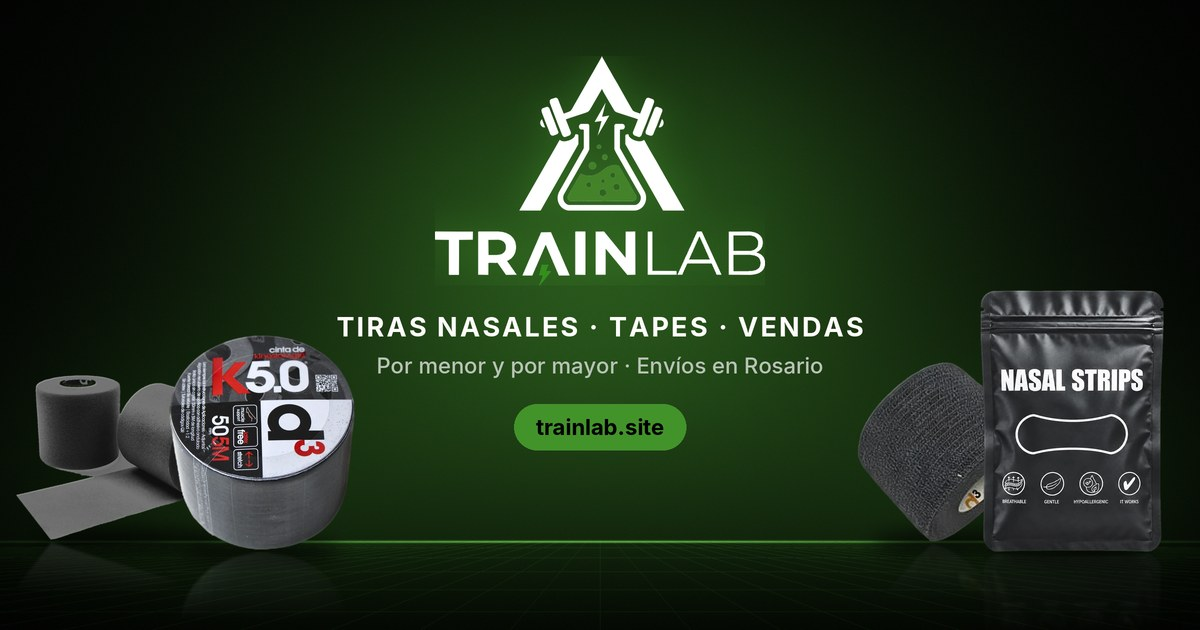
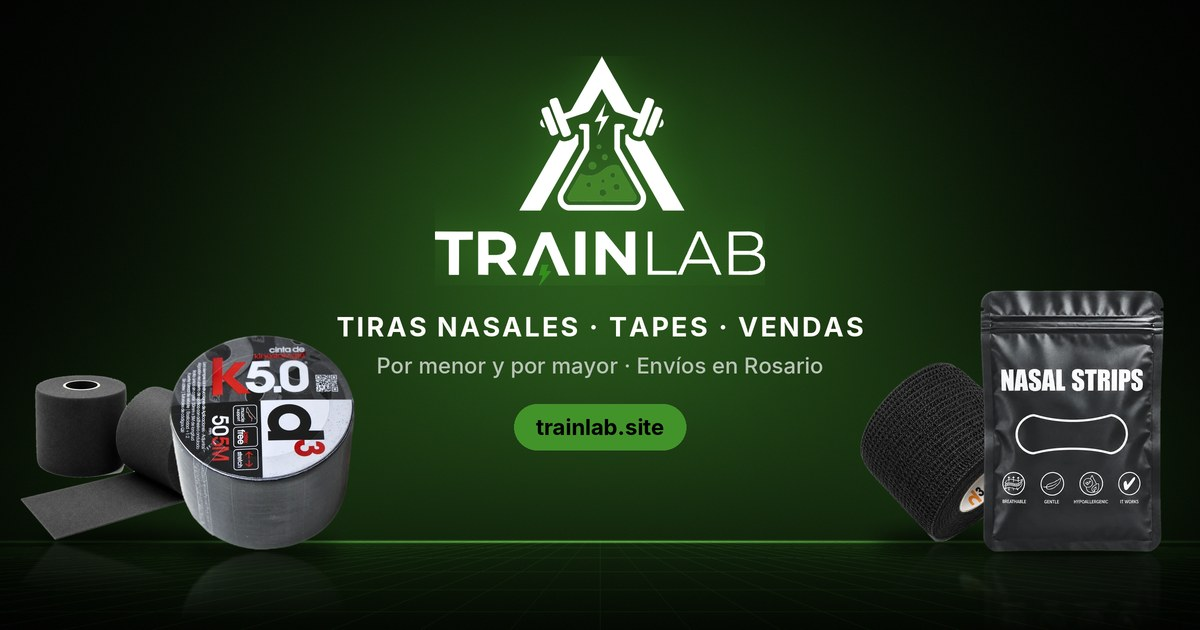
Fotos en alta calidad del Pre Tape y la Venda Cohesiva (catálogo, ficha, laboratorio e imagen para compartir)
Claude-Session: https://claude.ai/code/session_01GEY3o5xzTM7sRgXB44bjRC

Changed region(s): [[0.7092, 0.573, 0.8325, 0.8746], [0.0, 0.6032, 0.1542, 0.8746]]

diff --git a/index.html b/index.html
@@ -28,7 +28,7 @@
 <meta name="twitter:description" content="Tiras nasales, tapes deportivos, cintas kinesiológicas y vendas. Venta por menor y por mayor. Envíos en Rosario y alrededores.">
 <meta name="twitter:image" content="https://trainlab.site/media/web/og-trainlab.jpg">
 <style>:root{padding-top:env(safe-area-inset-top,0px);padding-bottom:env(safe-area-inset-bottom,0px)}body{margin:0}img{max-width:100%}[hidden]{display:none!important}</style>
-<script type="application/ld+json">{"@context":"https://schema.org","@graph":[{"@type":"Store","@id":"https://trainlab.site/#store","name":"TRAINLAB","url":"https://trainlab.site/","logo":"https://trainlab.site/icon-512.png","image":"https://trainlab.site/media/web/og-trainlab.jpg","telephone":"+54 9 341 610-2574","address":{"@type":"PostalAddress","addressLocality":"Rosario","addressRegion":"Santa Fe","addressCountry":"AR"},"areaServed":"Rosario y alrededores","sameAs":["https://www.instagram.com/trainlab.ros/","https://g.page/r/Cdd3to9BkibKEBM"],"paymentAccepted":"Efectivo, transferencia, Mercado Pago, tarjeta de débito y crédito"},{"@type":"WebSite","@id":"https://trainlab.site/#web","url":"https://trainlab.site/","name":"TRAINLAB","inLanguage":"es-AR"},{"@type":"Product","name":"Nasal Strips","description":"Una tira de aplicación externa que puede ayudar a mejorar el flujo de aire nasal y la comodidad al respirar por la nariz. Un pequeño detalle para acompañar tu rutina.","image":"https://trainlab.site/media/web/photo-assets-image-2-png.webp","brand":{"@type":"Brand","name":"TRAINLAB"},"offers":{"@type":"Offer","priceCurrency":"ARS","price":"12000.00","availability":"https://schema.org/InStock","url":"https://trainlab.site/#productos","seller":{"@id":"https://trainlab.site/#store"}}},{"@type":"Product","name":"Nasal Strips Combo x3","description":"Una tira de aplicación externa que puede ayudar a mejorar el flujo de aire nasal y la comodidad al respirar por la nariz. Un pequeño detalle para acompañar tu rutina.","image":"https://trainlab.site/media/web/photo-media-61235c51-261b-467e-87a5-d6d9654a0ad8-png.webp","brand":{"@type":"Brand","name":"TRAINLAB"},"offers":{"@type":"Offer","priceCurrency":"ARS","price":"30600.00","availability":"https://schema.org/InStock","url":"https://trainlab.site/#productos","seller":{"@id":"https://trainlab.site/#store"}}},{"@type":"Product","name":"D3 AST - Sport Tape","description":"Tape deportivo rígido D3 AST de algodón para técnicas de vendaje.","image":"https://trainlab.site/media/web/photo-assets-d3-753797efefff1156-webp.webp","brand":{"@type":"Brand","name":"D3"},"offers":{"@type":"Offer","priceCurrency":"ARS","price":"6400.00","availability":"https://schema.org/InStock","url":"https://trainlab.site/#productos","seller":{"@id":"https://trainlab.site/#store"}}},{"@type":"Product","name":"D3 K5 Kinesiology Tape","description":"Cinta kinesiológica elástica D3 K5 de 5 cm × 5 m, disponible en varios colores.","image":"https://trainlab.site/media/web/photo-assets-d3-b2226800c6480ea9-webp.webp","brand":{"@type":"Brand","name":"D3"},"offers":{"@type":"Offer","priceCurrency":"ARS","price":"12400.00","availability":"https://schema.org/InStock","url":"https://trainlab.site/#productos","seller":{"@id":"https://trainlab.site/#store"}}},{"@type":"Product","name":"D3 Pre Tape","description":"Pre tape D3 de 70 mm × 27 m, para colocar como capa previa al vendaje adhesivo.","image":"https://trainlab.site/media/web/photo-assets-d3-578024cc44b86db7-webp.webp","brand":{"@type":"Brand","name":"D3"},"offers":{"@type":"Offer","priceCurrency":"ARS","price":"8300.00","availability":"https://schema.org/InStock","url":"https://trainlab.site/#productos","seller":{"@id":"https://trainlab.site/#store"}}},{"@type":"Product","name":"D3 Venda Cohesiva 5x5","description":"Venda elástica cohesiva D3 negra de 5 cm × 5 m. Se adhiere sobre sí misma, sin pegarse a la piel ni al vello.","image":"https://trainlab.site/media/web/photo-assets-d3-cohesiva-5x5-webp.webp","brand":{"@type":"Brand","name":"D3"},"offers":{"@type":"Offer","priceCurrency":"ARS","price":"6650.00","availability":"https://schema.org/InStock","url":"https://trainlab.site/#productos","seller":{"@id":"https://trainlab.site/#store"}}}]}</script>
+<script type="application/ld+json">{"@context":"https://schema.org","@graph":[{"@type":"Store","@id":"https://trainlab.site/#store","name":"TRAINLAB","url":"https://trainlab.site/","logo":"https://trainlab.site/icon-512.png","image":"https://trainlab.site/media/web/og-trainlab.jpg","telephone":"+54 9 341 610-2574","address":{"@type":"PostalAddress","addressLocality":"Rosario","addressRegion":"Santa Fe","addressCountry":"AR"},"areaServed":"Rosario y alrededores","sameAs":["https://www.instagram.com/trainlab.ros/","https://g.page/r/Cdd3to9BkibKEBM"],"paymentAccepted":"Efectivo, transferencia, Mercado Pago, tarjeta de débito y crédito"},{"@type":"WebSite","@id":"https://trainlab.site/#web","url":"https://trainlab.site/","name":"TRAINLAB","inLanguage":"es-AR"},{"@type":"Product","name":"Nasal Strips","description":"Una tira de aplicación externa que puede ayudar a mejorar el flujo de aire nasal y la comodidad al respirar por la nariz. Un pequeño detalle para acompañar tu rutina.","image":"https://trainlab.site/media/web/photo-assets-image-2-png.webp","brand":{"@type":"Brand","name":"TRAINLAB"},"offers":{"@type":"Offer","priceCurrency":"ARS","price":"12000.00","availability":"https://schema.org/InStock","url":"https://trainlab.site/#productos","seller":{"@id":"https://trainlab.site/#store"}}},{"@type":"Product","name":"Nasal Strips Combo x3","description":"Una tira de aplicación externa que puede ayudar a mejorar el flujo de aire nasal y la comodidad al respirar por la nariz. Un pequeño detalle para acompañar tu rutina.","image":"https://trainlab.site/media/web/photo-media-61235c51-261b-467e-87a5-d6d9654a0ad8-png.webp","brand":{"@type":"Brand","name":"TRAINLAB"},"offers":{"@type":"Offer","priceCurrency":"ARS","price":"30600.00","availability":"https://schema.org/InStock","url":"https://trainlab.site/#productos","seller":{"@id":"https://trainlab.site/#store"}}},{"@type":"Product","name":"D3 AST - Sport Tape","description":"Tape deportivo rígido D3 AST de algodón para técnicas de vendaje.","image":"https://trainlab.site/media/web/photo-assets-d3-753797efefff1156-webp.webp","brand":{"@type":"Brand","name":"D3"},"offers":{"@type":"Offer","priceCurrency":"ARS","price":"6400.00","availability":"https://schema.org/InStock","url":"https://trainlab.site/#productos","seller":{"@id":"https://trainlab.site/#store"}}},{"@type":"Product","name":"D3 K5 Kinesiology Tape","description":"Cinta kinesiológica elástica D3 K5 de 5 cm × 5 m, disponible en varios colores.","image":"https://trainlab.site/media/web/photo-assets-d3-b2226800c6480ea9-webp.webp","brand":{"@type":"Brand","name":"D3"},"offers":{"@type":"Offer","priceCurrency":"ARS","price":"12400.00","availability":"https://schema.org/InStock","url":"https://trainlab.site/#productos","seller":{"@id":"https://trainlab.site/#store"}}},{"@type":"Product","name":"D3 Pre Tape","description":"Pre tape D3 de 70 mm × 27 m, para colocar como capa previa al vendaje adhesivo.","image":"https://trainlab.site/media/web/photo-assets-d3-578024cc44b86db7-webp.webp","brand":{"@type":"Brand","name":"D3"},"offers":{"@type":"Offer","priceCurrency":"ARS","price":"8300.00","availability":"https://schema.org/InStock","url":"https://trainlab.site/#productos","seller":{"@id":"https://trainlab.site/#store"}}},{"@type":"Product","name":"D3 Venda Cohesiva 5x5","description":"Venda elástica cohesiva D3 negra de 5 cm × 5 m. Se adhiere sobre sí misma, sin pegarse a la piel ni al vello.","image":"https://trainlab.site/media/web/photo-cohesiva-hd.webp","brand":{"@type":"Brand","name":"D3"},"offers":{"@type":"Offer","priceCurrency":"ARS","price":"6650.00","availability":"https://schema.org/InStock","url":"https://trainlab.site/#productos","seller":{"@id":"https://trainlab.site/#store"}}}]}</script>
 <script async src="https://www.googletagmanager.com/gtag/js?id=G-10K5DPQJL1"></script>
 <script>window.dataLayer=window.dataLayer||[];function gtag(){dataLayer.push(arguments)}gtag("js",new Date());gtag("config","G-10K5DPQJL1");</script>
 </head>
@@ -73,9 +73,9 @@
 <footer class="tl-footer tl-footer-c" id="pie" data-surface="dark"><div class="wrap"><div class="tl-foot-row"><a href="#inicio" class="wordmark tl-logo-link" aria-label="TRAINLAB, inicio"><svg class="tl-logo" viewBox="0 0 426 100" aria-hidden="true" focusable="false" xmlns="http://www.w3.org/2000/svg"><path fill="currentColor" fill-rule="evenodd" d="M66.9 93.7 70.6 93.8ZM59.9 93.7 64.9 93.8ZM48.1 93.7 53.2 93.8ZM43.5 93.7 47.7 93.8ZM69.1 50.7 68.6 51.3 68.6 57.0 93.0 99.9 106.9 99.9 92.9 75.6 88.4 67.5 82.9 58.1 80.8 54.2 80.6 54.2 80.3 54.5 79.0 55.0 76.4 55.0 76.2 54.8 75.0 54.7 73.4 53.9 72.0 53.0 71.1 52.0 70.7 51.3 70.7 50.8 70.4 50.5 69.4 50.5ZM37.5 50.5 36.5 50.5 36.0 51.0 36.0 51.4 35.7 52.2 34.9 53.0 33.2 54.1 31.2 54.8 28.8 55.2 28.5 55.0 27.2 54.8 26.3 54.3 26.1 54.3 25.8 54.6 0.0 99.9 13.8 99.8 38.1 57.0 38.1 51.0ZM39.2 44.1 38.5 45.4 38.9 46.6 39.2 47.0 39.9 47.4 41.2 47.4 41.8 47.9 41.8 59.5 32.6 75.8 26.5 86.3 25.3 88.8 24.9 90.1 24.9 90.7 24.7 90.9 24.7 92.7 24.9 92.9 24.9 93.5 25.3 94.8 26.5 97.0 27.8 98.3 30.0 99.6 31.2 99.7 31.3 99.9 75.4 99.9 75.5 99.7 76.2 99.7 77.2 99.4 79.3 98.1 80.0 97.4 80.9 96.1 81.8 93.9 81.8 93.3 82.0 93.0 82.0 90.2 81.5 88.4 65.1 59.5 65.1 47.6 65.3 47.4 66.8 47.4 67.4 47.2 67.8 46.9 68.2 46.2 68.2 45.1 67.8 44.4 67.2 43.9 66.8 43.9 66.5 43.7 63.7 43.7 63.4 43.9 62.8 43.7 62.0 44.1 61.5 45.1 61.5 56.3 61.6 56.5 61.5 56.9 61.5 60.0 62.9 63.1 78.3 89.9 78.7 90.9 78.7 92.3 78.5 92.6 78.5 93.2 77.4 95.1 76.3 95.9 75.1 96.4 32.0 96.4 30.4 95.7 29.3 94.7 28.6 93.4 28.4 92.0 28.2 91.8 28.6 89.9 44.2 62.5 45.3 60.2 45.3 44.9 45.1 44.4 44.6 43.9 42.9 43.9 42.7 43.7 41.1 43.7 40.9 43.9 39.5 43.9ZM14.5 40.9 14.0 41.5 13.4 42.7 13.6 44.1 14.3 45.3 15.0 45.8 15.5 46.0 16.5 46.0 16.6 45.8 15.1 42.5 15.0 41.7ZM92.5 40.9 91.9 41.7 90.4 46.0 91.4 46.0 92.6 45.3 93.1 44.4 93.3 43.9 93.3 42.2 93.1 41.7ZM89.6 32.8 88.4 32.8 87.8 33.3 87.3 34.3 81.7 48.8 81.7 49.5 82.3 50.4 84.5 51.3 85.8 51.3 86.6 50.5 87.5 48.1 89.2 44.6 90.6 40.4 92.6 35.7 92.6 34.7 92.0 33.9ZM17.5 32.8 15.3 33.5 14.7 33.9 14.3 34.5 14.3 35.7 16.5 41.6 17.6 44.0 17.7 44.8 19.0 47.6 19.7 49.8 20.3 50.8 21.1 51.3 22.0 51.3 24.6 50.3 25.2 49.5 25.2 48.8 23.9 45.9 23.6 44.5 21.8 40.1 21.6 39.3 21.1 38.4 19.8 34.7 19.3 33.6 18.5 32.8ZM55.6 30.6 48.8 42.3 50.0 42.4 50.3 42.2 51.3 42.2 51.5 42.0 52.5 42.0 52.8 41.8 53.1 41.9 53.0 42.8 52.7 43.6 50.9 50.9 58.0 38.7 57.9 38.5 57.3 38.5 57.0 38.7 56.2 38.7 54.8 39.1 53.6 39.1ZM87.2 28.8 86.8 28.1 86.0 27.6 83.9 26.9 82.9 26.9 82.3 27.3 81.5 28.6 80.3 32.1 79.7 33.1 78.5 36.6 78.1 37.1 74.8 36.0 73.8 35.5 73.2 34.9 72.0 32.8 64.4 19.3 56.7 6.1 53.4 0.0 53.0 0.9 36.7 29.3 35.3 32.1 33.2 35.3 31.5 36.2 28.8 37.1 28.2 36.2 25.2 28.2 24.6 27.2 24.0 26.9 23.0 26.9 20.9 27.6 20.3 28.0 19.7 28.6 19.7 30.1 21.9 36.0 23.1 39.0 23.3 39.8 24.4 42.2 24.7 43.5 25.3 44.5 26.5 48.0 27.2 49.6 27.4 50.4 28.3 51.9 28.9 52.2 29.7 52.2 32.4 51.2 32.9 50.8 33.2 50.2 33.2 49.0 30.0 40.9 30.6 40.6 31.9 40.2 32.5 39.9 33.5 39.7 34.7 39.2 35.7 39.0 36.8 38.4 37.3 38.4 43.2 36.5 44.8 35.6 45.4 34.9 47.0 32.3 53.2 21.4 53.6 21.3 54.8 23.8 61.8 35.6 63.5 36.5 65.1 37.0 65.6 37.0 66.8 37.5 67.2 37.5 71.2 39.0 71.7 39.0 76.0 40.4 76.8 40.9 76.0 43.2 73.8 48.3 73.5 49.6 74.0 50.8 74.6 51.3 77.2 52.2 77.8 52.2 78.8 51.6 79.3 50.5 79.7 49.2 82.3 42.8 82.5 42.0 83.2 40.5 83.4 39.7 85.0 35.8 86.6 31.1 87.0 30.5ZM218.3 25.8 217.9 26.2 217.9 26.8 217.2 27.9 217.2 28.6 216.1 30.3 216.1 30.9 215.6 31.5 215.6 32.2 214.9 33.3 212.0 40.4 211.3 41.5 211.3 42.2 210.5 43.3 210.5 44.0 209.7 45.1 209.7 45.8 209.0 46.9 206.1 54.0 205.4 55.1 205.4 55.8 204.9 56.4 204.9 57.1 204.1 58.2 204.1 58.8 203.3 60.0 202.8 61.7 201.0 65.5 210.0 65.6 210.4 65.3 211.7 61.8 212.4 60.6 212.4 60.0 212.9 59.4 212.9 58.7 214.0 57.1 216.8 50.0 217.6 48.8 217.6 48.2 219.9 43.5 220.4 42.2 220.4 41.5 221.1 40.4 222.2 37.7 222.7 37.3 224.1 40.9 224.9 42.1 224.9 42.7 225.4 43.3 225.4 44.0 226.1 45.1 226.1 45.8 226.7 46.4 227.7 48.7 227.7 49.4 229.0 51.8 229.2 52.9 230.0 54.1 230.0 54.7 230.8 55.9 230.8 56.5 231.3 57.2 231.3 57.8 232.0 59.0 232.6 60.6 233.8 63.1 233.8 63.7 234.6 64.9 234.6 65.5 244.6 65.6 244.2 64.7 244.2 64.1 243.7 63.5 243.7 62.8 242.9 61.7 240.1 54.6 239.3 53.5 239.3 52.8 238.6 51.7 238.6 51.0 238.1 50.4 238.1 49.7 237.3 48.6 234.5 41.5 233.7 40.4 233.7 39.7 232.7 38.1 232.7 37.4 232.2 36.8 232.2 36.2 231.4 35.0 228.6 27.9 227.8 26.8 227.8 26.2 227.2 25.5 220.6 25.5 220.2 25.8ZM392.3 25.0 392.3 64.7 413.1 65.1 413.5 64.9 414.9 64.9 415.2 64.6 416.4 64.6 417.6 64.1 418.5 64.1 421.3 62.8 422.7 61.8 424.0 60.5 424.2 59.7 425.0 58.8 425.5 56.7 425.8 56.5 425.8 51.8 425.5 51.7 425.2 50.3 424.5 48.7 423.2 47.1 421.5 45.8 420.0 45.0 418.2 44.5 418.3 44.0 420.4 42.8 421.7 41.5 423.5 38.1 423.5 37.2 423.7 36.8 423.7 33.6 423.5 33.2 423.2 31.5 422.2 29.6 420.1 27.6 418.5 26.5 417.8 26.5 417.2 26.0 415.6 25.5 414.5 25.5 413.8 25.0ZM396.5 46.7 396.8 46.4 412.6 46.4 412.9 46.7 415.9 46.9 417.9 47.7 419.6 48.7 421.3 51.0 421.5 52.9 421.8 53.3 421.8 54.7 421.5 55.1 421.3 57.1 420.2 58.7 418.8 59.9 416.9 60.9 416.0 60.9 414.9 61.4 411.4 61.4 411.0 61.7 396.8 61.7 396.5 61.4ZM396.5 28.7 396.8 28.5 412.6 28.5 414.0 29.0 414.9 29.0 417.8 30.8 419.2 33.1 419.5 33.8 419.5 37.1 419.2 37.4 419.2 38.3 418.5 39.7 417.3 40.9 415.1 42.2 412.6 42.9 396.8 42.9 396.5 42.7ZM363.1 25.0 362.3 26.2 362.3 26.8 361.0 29.0 361.0 29.6 359.7 31.8 359.7 32.4 358.7 34.1 358.7 34.7 357.7 36.4 357.7 37.1 351.5 49.7 351.5 50.4 350.5 52.1 350.5 52.7 349.2 54.9 349.2 55.5 347.9 57.7 344.9 64.7 349.0 64.9 349.3 64.5 349.6 63.3 350.6 61.7 350.6 61.0 351.4 59.9 353.5 55.1 354.2 54.4 376.1 54.4 377.4 56.4 377.4 57.1 378.5 58.7 378.5 59.4 379.0 60.0 379.2 61.2 380.5 63.3 380.8 64.5 381.1 64.9 385.4 64.9 367.3 25.0ZM365.1 29.6 365.9 30.8 367.7 35.3 369.0 37.4 369.0 38.1 369.7 39.2 369.7 39.9 370.8 41.5 370.8 42.2 371.5 43.3 371.5 44.0 372.6 45.6 372.6 46.3 373.3 47.4 373.6 48.6 374.6 50.6 374.3 50.9 355.8 50.9 355.5 50.5 356.5 48.6 356.5 47.9 358.8 43.5 358.8 42.8 359.6 41.7 359.6 41.0 360.6 39.4 363.5 32.6 364.2 31.4 364.2 30.8ZM317.2 25.0 317.2 64.7 343.8 64.9 344.0 63.8 343.7 63.5 343.6 61.4 321.7 61.4 321.4 61.2 321.4 25.0ZM269.0 25.0 269.0 64.7 278.1 64.7 278.1 41.3 278.3 41.2 279.2 41.9 279.7 42.8 283.1 46.5 284.6 48.7 286.7 50.9 288.2 53.1 290.2 55.3 290.8 56.2 293.8 59.6 297.9 64.9 298.3 65.1 300.5 65.1 300.9 64.9 305.6 64.9 305.5 25.0 296.7 25.0 296.5 49.0 295.5 48.2 294.0 46.0 293.2 45.4 291.7 43.2 290.9 42.6 289.3 40.4 286.3 36.9 285.8 36.0 285.2 35.6 283.7 33.5 282.9 32.8 281.4 30.6 280.6 30.0 279.1 27.8 278.3 27.2 276.8 25.0ZM250.0 25.0 250.0 64.7 259.0 65.1 259.3 64.7 259.3 25.0ZM160.2 25.0 160.0 25.4 160.0 64.7 169.0 65.1 169.3 64.7 169.3 54.1 170.0 54.1 170.4 53.8 175.1 53.8 175.5 54.1 177.2 53.8 177.9 54.0 178.5 54.5 185.4 64.6 186.0 65.1 189.0 65.1 189.3 64.9 195.4 64.9 195.2 64.4 192.9 60.9 192.4 60.5 188.8 55.0 186.8 52.4 187.3 51.8 190.1 50.3 192.4 47.9 194.2 44.5 194.7 41.3 195.0 40.9 195.0 37.9 194.7 37.6 194.7 36.4 194.5 36.0 194.2 34.1 192.4 30.9 190.1 28.6 188.7 27.6 185.4 26.0 184.5 26.0 183.6 25.5 181.7 25.3 181.5 25.0ZM183.8 34.5 185.4 36.9 185.4 37.6 185.6 37.9 185.6 40.9 184.6 43.5 183.5 44.7 181.3 46.0 180.4 46.0 179.2 46.5 177.8 46.5 177.4 46.8 169.9 46.8 169.6 46.5 169.6 43.8 169.3 43.5 169.3 32.8 169.6 32.6 180.2 32.6 182.6 33.6ZM120.1 25.0 120.0 32.3 120.9 32.6 132.6 32.6 132.8 32.8 132.8 64.7 133.2 65.1 141.8 65.1 142.2 64.7 142.2 32.8 142.4 32.6 154.3 32.6 154.9 32.3 155.0 25.0Z"/><path fill="#43932B" fill-rule="evenodd" d="M75.7 90.8 72.7 85.2 64.6 71.3 63.4 70.6 61.4 70.4 61.1 70.6 59.6 70.8 57.6 71.5 54.5 73.5 51.6 75.6 50.0 76.5 48.6 77.1 48.1 77.1 47.1 77.4 46.3 77.4 46.1 77.6 44.4 77.6 44.1 77.4 42.6 77.2 39.7 76.2 39.1 77.0 37.1 80.6 36.4 81.6 32.1 89.2 31.2 91.1 31.2 92.1 31.7 93.1 32.5 93.6 37.3 93.6 37.5 93.8 38.6 93.6 39.7 93.8 40.8 93.6 41.8 93.6 42.0 93.8 42.7 93.6 43.1 93.8 43.5 93.6 53.2 93.6 53.5 93.8 56.5 93.8 56.7 93.6 66.3 93.6 66.6 93.8 66.9 93.6 71.3 93.7 74.2 93.6 74.8 93.3 75.5 92.5 75.7 91.9ZM53.5 85.9 54.3 85.9 55.6 86.6 56.3 87.9 56.3 89.1 56.1 89.4 55.3 90.3 54.7 90.7 53.3 90.7 53.0 90.5 52.1 89.7 51.5 88.7 51.5 87.9 52.2 86.6ZM62.3 82.5 63.4 82.5 64.2 82.9 64.7 83.3 65.2 84.5 65.2 84.9 64.7 86.1 63.4 86.9 62.6 86.9 61.9 86.6 61.2 85.9 60.8 85.3 60.8 84.1 61.2 83.4ZM44.4 81.6 45.5 81.6 46.2 82.2 46.6 82.9 46.6 83.7 46.4 84.1 45.5 84.9 44.4 84.9 43.7 84.6 43.3 83.9 43.3 82.7 43.6 82.1ZM53.5 79.7 54.7 79.7 55.0 79.9 55.4 80.6 55.2 81.4 54.5 82.1 53.7 82.1 53.3 81.9 52.8 81.0 53.0 80.2ZM60.1 75.4 60.9 75.4 61.6 75.7 62.0 76.3 62.2 76.8 62.2 77.4 61.8 78.0 61.1 78.7 60.6 78.9 59.5 78.5 58.9 77.8 58.8 77.2 58.9 76.4 59.2 75.9ZM47.0 68.5 46.1 68.8 45.5 69.4 45.0 70.5 45.0 71.1 45.3 72.0 45.9 72.7 47.0 73.2 47.7 73.2 48.6 72.8 49.2 72.3 49.6 71.7 49.7 70.7 49.4 69.6 48.8 69.0 47.7 68.5ZM54.9 63.6 54.2 64.0 53.6 65.0 53.8 66.1 54.1 66.6 54.7 66.9 56.1 66.9 56.9 66.1 57.1 65.0 56.5 64.0 55.9 63.6ZM51.2 57.3 50.5 57.7 50.2 58.6 50.7 59.6 51.3 59.9 52.0 59.9 52.8 59.1 53.0 58.3 52.6 57.7 52.2 57.3ZM224.6 55.8 219.0 55.9 218.7 57.8 217.9 59.5 217.7 61.7 217.2 62.6 217.2 63.5 216.7 64.4 216.7 65.3 219.7 65.4 220.0 65.6 220.0 66.3 219.5 67.2 219.2 68.6 218.7 69.2 218.7 70.1 217.7 72.1 216.7 74.9 217.2 74.7 217.8 73.5 221.1 69.7 222.4 67.8 227.2 62.1 226.4 61.7 222.8 61.5 223.5 59.9 223.5 59.2 224.2 57.8 224.2 57.2 224.7 56.5Z"/></svg></a><nav class="tl-foot-links" aria-label="Pie de página"><a href="#productos">Productos</a><a href="#por-mayor">Por mayor</a><a href="#envios">Envíos y cambios</a><button type="button" data-channel="whatsapp">WhatsApp ↗</button><button type="button" data-channel="instagram">Instagram ↗</button><a href="https://g.page/r/Cdd3to9BkibKEBM/review" target="_blank" rel="noopener noreferrer">Reseñas ↗</a></nav></div><div class="tl-legal"><button type="button" class="tl-arrep" data-legal="arrepentimiento">Botón de arrepentimiento</button><a href="https://www.argentina.gob.ar/servicio/iniciar-un-reclamo-ante-defensa-de-las-y-los-consumidores" target="_blank" rel="noopener noreferrer">Defensa de las y los Consumidores. Para reclamos ingresá aquí ↗</a><span class="tl-owner">© 2026 TRAINLAB · Rosario, Santa Fe</span></div></div></footer><div class="toast" role="status" aria-live="polite" hidden></div>
 <button type="button" class="wa-float is-hidden" data-channel="whatsapp" aria-label="Escribinos por WhatsApp"><svg viewBox="0 0 24 24" fill="none" stroke="currentColor" stroke-width="1.8" stroke-linecap="round" stroke-linejoin="round" aria-hidden="true"><path d="M20 11.5a8 8 0 0 1-11.6 7.1L4 20l1.4-4.2A8 8 0 1 1 20 11.5Z"/><path d="M9 9.5c.3 2.2 2.3 4.2 4.5 4.5"/></svg><span>WhatsApp</span></button>
 <button type="button" id="kit-dock" class="kit-dock" data-shopping-open="kit" aria-controls="kit-panel" hidden>Ver carrito</button>
-<script type="application/json" id="trainlab-creative">{"media":{"web-hero":"media/web/web-hero.mp4","web-offer":"media/web/web-offer.mp4","web-reel_user":"media/web/web-reel_user.mp4","web-ad_k5":"media/web/web-ad-K5.mp4","web-ad_pretape":"media/web/web-ad-pre-tape.mp4","web-hero-sq":"media/web/web-hero-sq.mp4"},"posters":{"hero-poster":"media/web/i-01fd7afa8588.webp","poster-offer":"media/web/i-0165af37341c.webp","poster-reel_user":"media/web/i-03a0b92f069d.webp","poster-ad_k5":"media/web/i-e1d8c4da581e.webp","poster-ad_pretape":"media/web/i-a99bc9f599b0.webp","hero-poster-sq":"media/web/hero-poster-sq.webp"},"cuts":{"nasal":"media/web/cut-nasal.webp","k5":"media/web/cut-k5.webp","ast":"media/web/cut-ast.webp","pretape":"media/web/cut-pretape.webp","combo":"media/web/cut-combo.webp","cohesiva":"media/web/cut-cohesiva.webp"}}</script>
+<script type="application/json" id="trainlab-creative">{"media":{"web-hero":"media/web/web-hero.mp4","web-offer":"media/web/web-offer.mp4","web-reel_user":"media/web/web-reel_user.mp4","web-ad_k5":"media/web/web-ad-K5.mp4","web-ad_pretape":"media/web/web-ad-pre-tape.mp4","web-hero-sq":"media/web/web-hero-sq.mp4"},"posters":{"hero-poster":"media/web/i-01fd7afa8588.webp","poster-offer":"media/web/i-0165af37341c.webp","poster-reel_user":"media/web/i-03a0b92f069d.webp","poster-ad_k5":"media/web/i-e1d8c4da581e.webp","poster-ad_pretape":"media/web/i-a99bc9f599b0.webp","hero-poster-sq":"media/web/hero-poster-sq.webp"},"cuts":{"nasal":"media/web/cut-nasal.webp","k5":"media/web/cut-k5.webp","ast":"media/web/cut-ast.webp","pretape":"media/web/cut-pretape-hd.webp","combo":"media/web/cut-combo.webp","cohesiva":"media/web/cut-cohesiva-hd.webp"}}</script>
 <script type="application/json" id="trainlab-catalog">{"whatsapp":"5493416102574","instagram":"trainlab.ros","email":"","products":[{"id":"nasal-strips","name":"Nasal Strips","category":"Respiración nasal","description":"Una tira de aplicación externa que puede ayudar a mejorar el flujo de aire nasal y la comodidad al respirar por la nariz. Un pequeño detalle para acompañar tu rutina.","includes":"1 paquete grande con 30 tiras nasales","highlight":"Puede ayudar a mejorar el flujo de aire nasal y la comodidad al respirar por la nariz durante la rutina, el descanso o el entrenamiento.\nDuración: entre 10 y 12 horas.","howToUse":"Limpiá y secá la nariz. Retirá el protector, centrá la tira sobre el puente nasal y presioná los extremos. Para retirarla, humedecela y despegala suavemente.","priceNote":"Paquete de 30 unidades.","image":"assets/image-2.png","detailImage":"assets/image-3.png","visible":true,"imageSrcSet":"assets/optimized/image-2-640.webp 640w, assets/optimized/image-2-1254.webp 1254w","detailImageSrcSet":"assets/optimized/image-3-640.webp 640w, assets/optimized/image-3-1254.webp 1254w","archived":false,"discountPercent":0,"originalPrice":"$ 12.000","price":"$ 12.000","availability":"A pedido · confirmar disponibilidad"},{"id":"88fe2653-ffbc-41d0-bb10-0fb003006fdb","name":"Nasal Strips Combo x3","category":"Respiración nasal","description":"Una tira de aplicación externa que puede ayudar a mejorar el flujo de aire nasal y la comodidad al respirar por la nariz. Un pequeño detalle para acompañar tu rutina.","includes":"3 paquetes grandes con 90 tiras nasales.","highlight":"Puede ayudar a mejorar el flujo de aire nasal y la comodidad al respirar por la nariz durante la rutina, el descanso o el entrenamiento.\nDuración: entre 10 y 12 horas.","howToUse":"Limpiá y secá la nariz. Retirá el protector, centrá la tira sobre el puente nasal y presioná los extremos. Para retirarla, humedecela y despegala suavemente.","priceNote":"3 paquetes grandes con 90 tiras nasales.","image":"media/61235c51-261b-467e-87a5-d6d9654a0ad8.png","detailImage":"media/7fe9da39-d552-405a-80e1-68c43ce01a4d.png","visible":true,"imageSrcSet":"","detailImageSrcSet":"","archived":false,"discountPercent":15,"originalPrice":"$ 36.000","price":"$ 30.600","availability":"A pedido · confirmar disponibilidad"},{"id":"d3-d3ast-bulk20-4cm","name":"D3 AST - Sport Tape","category":"Tapes y vendajes","description":"Tape deportivo rígido D3 AST de algodón para técnicas de vendaje.","includes":"Presentación según el color y la medida seleccionados. Consultanos por el contenido del pedido.","highlight":"Sujeción firme, adhesivo con óxido de zinc, sin látex y corte manual práctico.","howToUse":"Aplicá sobre piel limpia, seca y sana siguiendo una técnica de vendaje indicada por un profesional. Evitá comprimir en exceso y retiralo si causa irritación, hormigueo o cambios de color.","priceNote":"","image":"assets/d3/753797efefff1156.webp","detailImage":"","visible":true,"hidePrice":false,"variants":[{"inventoryId":"d3-d3ast-rsw-4cm","color":"Blanco","option":"3,8 cm × 10 m","visible":true,"image":"assets/d3/9c86b9dce3cc520a.webp","detailImage":"","archived":false,"discountPercent":0,"originalPrice":"$ 6.400","price":"$ 6.400","availability":"A pedido · confirmar disponibilidad"}],"imageSrcSet":"","detailImageSrcSet":"","archived":false,"discountPercent":0,"originalPrice":"","price":"Consultá el precio","availability":"Consultá disponibilidad"},{"id":"d3-d3k5-rsw-beige","name":"D3 K5 Kinesiology Tape","category":"Kinesiología","description":"Cinta kinesiológica elástica D3 K5 de 5 cm × 5 m, disponible en varios colores.","includes":"Presentación según el color y la medida seleccionados. Consultanos por el contenido del pedido.","highlight":"Algodón, adhesivo acrílico y composición sin látex. Se adapta al contorno corporal y acompaña el movimiento.","howToUse":"Limpiá y secá la piel. Cortá el largo necesario, redondeá las puntas y colocá los extremos sin estirar. La dirección y tensión dependen de la técnica: consultá a un kinesiólogo. Retirá si irrita la piel.","priceNote":"","image":"assets/d3/b2226800c6480ea9.webp","detailImage":"","visible":true,"hidePrice":false,"variants":[{"inventoryId":"9fd9e992-aafd-4833-87a9-db4d500b6b8c","color":"Negro","option":"5 cm × 5 m","visible":true,"image":"assets/d3/373385b704cc3e6a.webp","detailImage":"","archived":false,"discountPercent":0,"originalPrice":"$ 12.400","price":"$ 12.400","availability":"A pedido · confirmar disponibilidad"},{"inventoryId":"d3-d3k5-rsw-elect-blue","color":"Celeste","option":"5 cm × 5 m","visible":true,"image":"assets/d3/4605815fbd031ae6.webp","detailImage":"","archived":true,"discountPercent":0,"originalPrice":"$ 12.400","price":"$ 12.400","availability":"A pedido · confirmar disponibilidad"},{"inventoryId":"d3-d3k5-rsw-pink","color":"Fucsia","option":"5 cm × 5 m","visible":true,"image":"assets/d3/666a0d3a7cc26a1e.webp","detailImage":"","archived":true,"discountPercent":0,"originalPrice":"$ 12.400","price":"$ 12.400","availability":"A pedido · confirmar disponibilidad"}],"imageSrcSet":"","detailImageSrcSet":"","archived":false,"discountPercent":0,"originalPrice":"","price":"Consultá el precio","availability":"Consultá disponibilidad"},{"id":"d3-pre-tape-beige","name":"D3 Pre Tape","category":"Pre tape","description":"Pre tape D3 de 70 mm × 27 m, para colocar como capa previa al vendaje adhesivo.","includes":"Presentación según el color y la medida seleccionados. Consultanos por el contenido del pedido.","highlight":"Material ligero y poroso que ayuda a reducir el contacto directo del tape con la piel y facilita su retiro.","howToUse":"Envolvé la zona con una capa fina y uniforme, sin ajustar en exceso. Después aplicá el tape según la técnica indicada por un profesional.","priceNote":"","image":"assets/d3/578024cc44b86db7.webp","detailImage":"","visible":true,"hidePrice":false,"variants":[{"inventoryId":"d3-pre-tape-beige","color":"Beige","option":"70 mm × 27 m","visible":true,"image":"assets/d3/578024cc44b86db7.webp","detailImage":"","archived":true,"discountPercent":0,"originalPrice":"$ 8.300","price":"$ 8.300","availability":"A pedido · confirmar disponibilidad"},{"inventoryId":"d3-pre-tape-negro","color":"Negro","option":"70 mm × 27 m","visible":true,"image":"assets/d3/4c7a779135c90c07.webp","detailImage":"","archived":false,"discountPercent":0,"originalPrice":"$ 8.300","price":"$ 8.300","availability":"A pedido · confirmar disponibilidad"}],"imageSrcSet":"","detailImageSrcSet":"","archived":true,"discountPercent":0,"originalPrice":"$ 8.300","price":"$ 8.300","availability":"A pedido · confirmar disponibilidad"},{"id":"d3-cohesiva-negro-5cm","name":"D3 Venda Cohesiva 5x5","category":"Tapes y vendajes","description":"Venda elástica cohesiva D3 negra de 5 cm × 5 m. Se adhiere sobre sí misma, sin pegarse a la piel ni al vello.","includes":"1 rollo de venda cohesiva negra de 5 cm × 5 m.","highlight":"Sujeción y compresión ligera que acompaña el movimiento. Se corta a mano, se puede reacomodar y no deja restos de adhesivo en la piel.","howToUse":"Envolvé la zona superponiendo cada vuelta hasta la mitad, sin estirar de más. Cortá con la mano o con tijera y presioná el final para que se fije. Si notás hormigueo, frío o cambio de color, aflojala.","priceNote":"Rollo de 5 cm × 5 m · Negro.","image":"assets/d3/cohesiva-5x5.webp","detailImage":"","visible":true,"imageSrcSet":"","detailImageSrcSet":"","archived":false,"discountPercent":0,"originalPrice":"$ 6.650","price":"$ 6.650","availability":"Disponible"}],"catalog":[{"id":"88fe2653-ffbc-41d0-bb10-0fb003006fdb","priceCents":3060000,"originalPriceCents":3600000,"discountPercent":15,"available":true,"archived":false,"availabilitySource":""},{"id":"9fd9e992-aafd-4833-87a9-db4d500b6b8c","priceCents":1240000,"originalPriceCents":1240000,"discountPercent":0,"available":true,"archived":false,"availabilitySource":""},{"id":"d3-cohesiva-negro-5cm","priceCents":665000,"originalPriceCents":665000,"discountPercent":0,"available":true,"archived":false,"availabilitySource":""},{"id":"d3-d3ast-rsw-4cm","priceCents":640000,"originalPriceCents":640000,"discountPercent":0,"available":true,"archived":false,"availabilitySource":""},{"id":"d3-d3k5-rsw-elect-blue","priceCents":1240000,"originalPriceCents":1240000,"discountPercent":0,"available":false,"archived":true,"availabilitySource":""},{"id":"d3-d3k5-rsw-pink","priceCents":1240000,"originalPriceCents":1240000,"discountPercent":0,"available":false,"archived":true,"availabilitySource":""},{"id":"d3-pre-tape-beige","priceCents":830000,"originalPriceCents":830000,"discountPercent":0,"available":false,"archived":true,"availabilitySource":""},{"id":"d3-pre-tape-negro","priceCents":830000,"originalPriceCents":830000,"discountPercent":0,"available":true,"archived":false,"availabilitySource":""},{"id":"nasal-strips","priceCents":1200000,"originalPriceCents":1200000,"discountPercent":0,"available":true,"archived":false,"availabilitySource":""}]}</script>
-<script type="application/json" id="trainlab-images">{"assets/d3/373385b704cc3e6a.webp":"media/web/photo-assets-d3-373385b704cc3e6a-webp.webp","assets/d3/4605815fbd031ae6.webp":"media/web/photo-assets-d3-4605815fbd031ae6-webp.webp","assets/d3/4c7a779135c90c07.webp":"media/web/photo-assets-d3-4c7a779135c90c07-webp.webp","assets/d3/578024cc44b86db7.webp":"media/web/photo-assets-d3-578024cc44b86db7-webp.webp","assets/d3/666a0d3a7cc26a1e.webp":"media/web/photo-assets-d3-666a0d3a7cc26a1e-webp.webp","assets/d3/753797efefff1156.webp":"media/web/photo-assets-d3-753797efefff1156-webp.webp","assets/d3/9c86b9dce3cc520a.webp":"media/web/photo-assets-d3-9c86b9dce3cc520a-webp.webp","assets/d3/b2226800c6480ea9.webp":"media/web/photo-assets-d3-b2226800c6480ea9-webp.webp","assets/image-2.png":"media/web/photo-assets-image-2-png.webp","assets/image-3.png":"media/web/photo-assets-image-3-png.webp","assets/optimized/image-1.webp":"media/web/i-39444ecba7ac.webp","assets/optimized/image-2-1254.webp":"media/web/photo-assets-optimized-image-2-1254-webp.webp","assets/optimized/image-2-640.webp":"media/web/photo-assets-optimized-image-2-640-webp.webp","assets/optimized/image-3-1254.webp":"media/web/photo-assets-optimized-image-3-1254-webp.webp","assets/optimized/image-3-640.webp":"media/web/photo-assets-optimized-image-3-640-webp.webp","media/61235c51-261b-467e-87a5-d6d9654a0ad8.png":"media/web/photo-media-61235c51-261b-467e-87a5-d6d9654a0ad8-png.webp","media/7fe9da39-d552-405a-80e1-68c43ce01a4d.png":"media/web/photo-media-7fe9da39-d552-405a-80e1-68c43ce01a4d-png.webp","assets/d3/cohesiva-5x5.webp":"media/web/photo-assets-d3-cohesiva-5x5-webp.webp"}</script>
+<script type="application/json" id="trainlab-images">{"assets/d3/373385b704cc3e6a.webp":"media/web/photo-assets-d3-373385b704cc3e6a-webp.webp","assets/d3/4605815fbd031ae6.webp":"media/web/photo-assets-d3-4605815fbd031ae6-webp.webp","assets/d3/4c7a779135c90c07.webp":"media/web/photo-pretape-hd.webp","assets/d3/578024cc44b86db7.webp":"media/web/photo-assets-d3-578024cc44b86db7-webp.webp","assets/d3/666a0d3a7cc26a1e.webp":"media/web/photo-assets-d3-666a0d3a7cc26a1e-webp.webp","assets/d3/753797efefff1156.webp":"media/web/photo-assets-d3-753797efefff1156-webp.webp","assets/d3/9c86b9dce3cc520a.webp":"media/web/photo-assets-d3-9c86b9dce3cc520a-webp.webp","assets/d3/b2226800c6480ea9.webp":"media/web/photo-assets-d3-b2226800c6480ea9-webp.webp","assets/image-2.png":"media/web/photo-assets-image-2-png.webp","assets/image-3.png":"media/web/photo-assets-image-3-png.webp","assets/optimized/image-1.webp":"media/web/i-39444ecba7ac.webp","assets/optimized/image-2-1254.webp":"media/web/photo-assets-optimized-image-2-1254-webp.webp","assets/optimized/image-2-640.webp":"media/web/photo-assets-optimized-image-2-640-webp.webp","assets/optimized/image-3-1254.webp":"media/web/photo-assets-optimized-image-3-1254-webp.webp","assets/optimized/image-3-640.webp":"media/web/photo-assets-optimized-image-3-640-webp.webp","media/61235c51-261b-467e-87a5-d6d9654a0ad8.png":"media/web/photo-media-61235c51-261b-467e-87a5-d6d9654a0ad8-png.webp","media/7fe9da39-d552-405a-80e1-68c43ce01a4d.png":"media/web/photo-media-7fe9da39-d552-405a-80e1-68c43ce01a4d-png.webp","assets/d3/cohesiva-5x5.webp":"media/web/photo-cohesiva-hd.webp"}</script>
 <script>
 /* EDITAR AQUÍ: completar los contactos y agregar objetos a products para ampliar el catálogo.
    whatsapp: número internacional, solo dígitos. instagram: usuario sin @.
